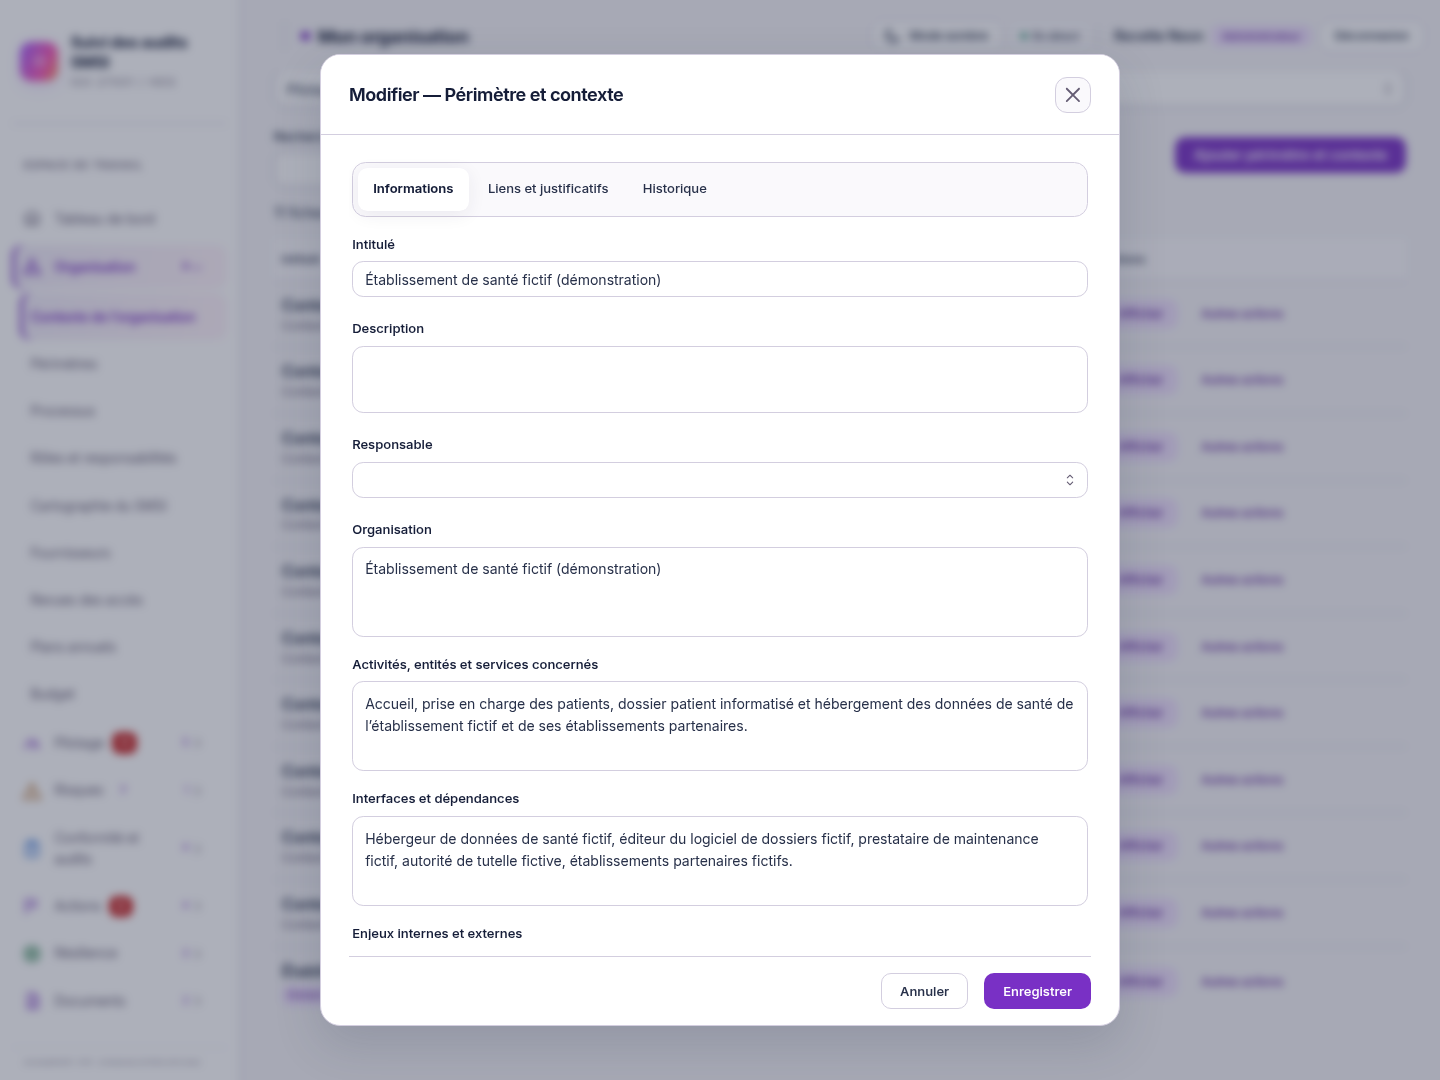
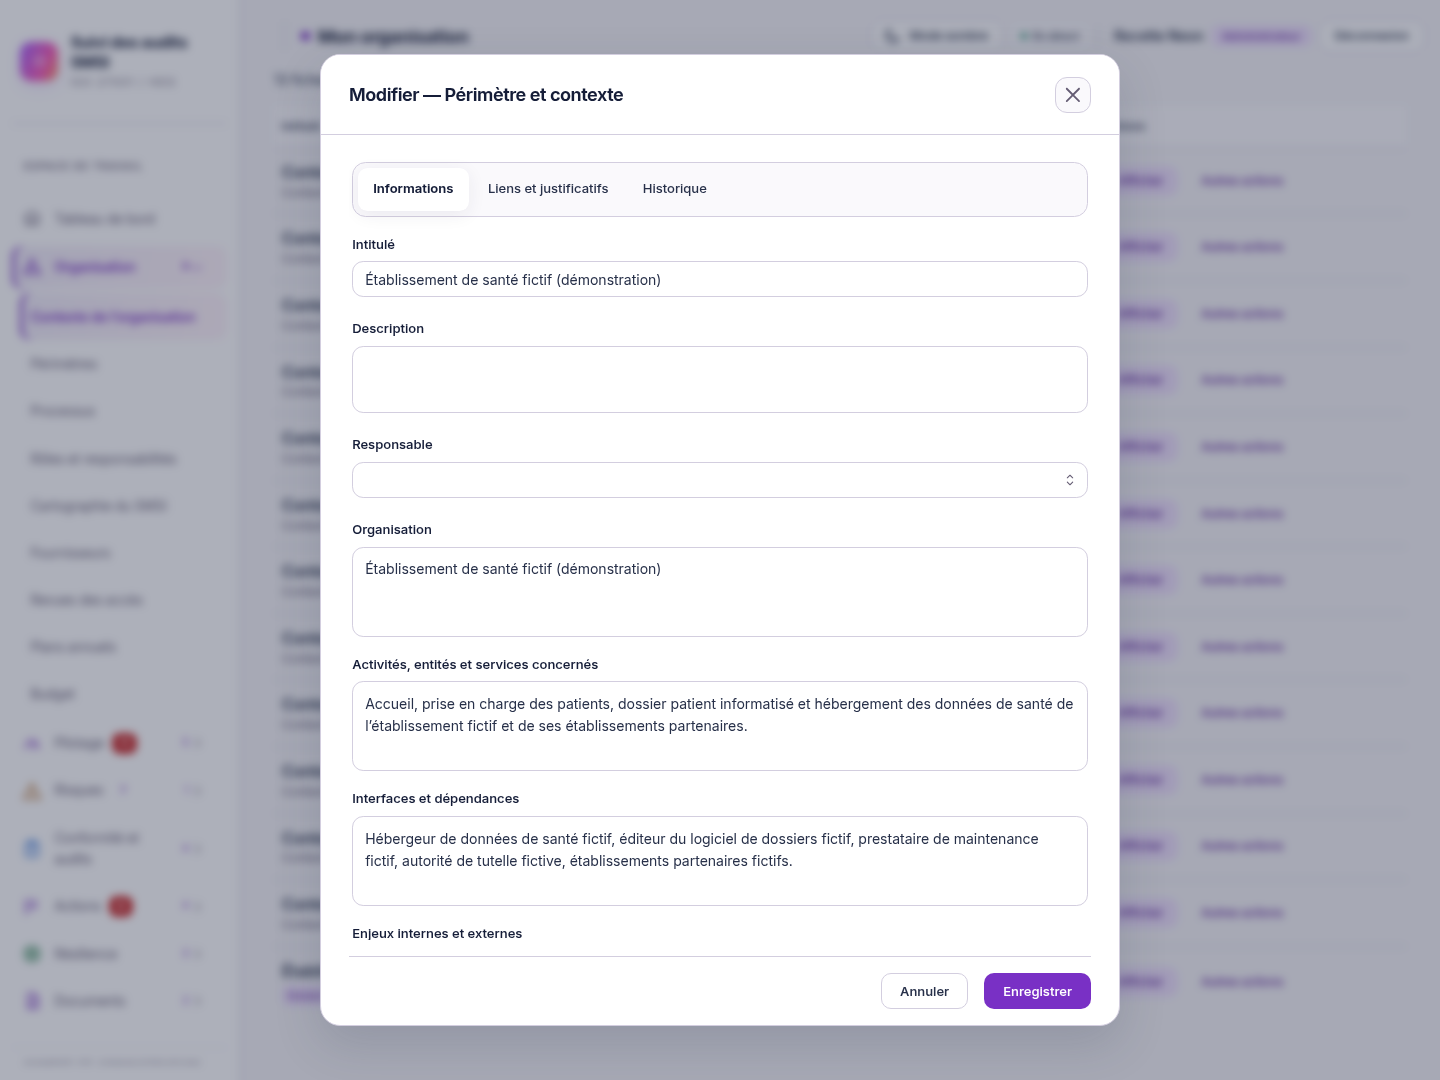
refactor(web): renforcer les fonds et unifier les listes du contexte
Puces partagées entre enjeux et interfaces, fonds et bordures plus soutenus.
Texte enregistré conservé ; découpage des énumérations et sauvegarde vérifiés.

Session : Codex (01a193c1-316c-7677-831f-2f31592aa052).

diff --git a/packages/ui/src/neon-fenetres.css b/packages/ui/src/neon-fenetres.css
@@ -231,6 +231,16 @@
 .contexte-fenetre {
   --modal-size-xl: 76rem;
 }
+.contexte-presentation {
+  --contexte-surface: color-mix(in srgb, var(--mantine-color-encre-9) 6%, var(--suivi-surface));
+  --contexte-filet: color-mix(in srgb, var(--mantine-color-encre-9) 18%, var(--suivi-trait));
+}
+.contexte-fenetre .mantine-Modal-inner {
+  --modal-inner-y-offset: 1rem;
+}
+.contexte-fenetre .mantine-Modal-content:not([data-full-screen]) {
+  --modal-content-max-height: calc(100dvh - 2rem);
+}
 .contexte-presentation > .mantine-Modal-header {
   min-height: 4rem;
   padding-block: 1rem;
@@ -369,9 +379,9 @@
   --contexte-repere-fond: var(--neon-doux);
   min-width: 0;
   padding: 1.25rem 1.4rem;
-  border: 1px solid var(--suivi-trait);
+  border: 1px solid var(--contexte-filet);
   border-radius: 0.8rem;
-  background: var(--suivi-surface);
+  background: var(--contexte-surface);
 }
 .contexte-section h4 {
   display: flex;
@@ -380,7 +390,7 @@
   min-height: 2rem;
   margin: 0 0 1rem;
   padding-bottom: 0.9rem;
-  border-bottom: 1px solid var(--suivi-trait);
+  border-bottom: 1px solid var(--contexte-filet);
   color: var(--neon-titre);
   font-size: 0.9rem;
   font-weight: 600;
@@ -420,7 +430,11 @@
   grid-template-columns: minmax(0, 1fr) minmax(10rem, 0.38fr);
   grid-column: 1 / -1;
   gap: 0.5rem 2rem;
-  background: linear-gradient(100deg, var(--neon-doux), var(--suivi-surface) 65%);
+  background: linear-gradient(
+    100deg,
+    color-mix(in srgb, var(--mantine-color-encre-9) 5%, var(--neon-doux)),
+    var(--contexte-surface) 65%
+  );
 }
 .contexte-section[data-champ='organisation'] h4 {
   grid-column: 1;
@@ -443,7 +457,7 @@
   align-self: center;
   margin: 0;
   padding: 0.5rem 0 0.5rem 1.5rem;
-  border-left: 1px solid var(--suivi-trait);
+  border-left: 1px solid var(--contexte-filet);
 }
 .contexte-responsable dd {
   font-size: 0.875rem;
@@ -452,16 +466,16 @@
   --contexte-repere-fond: color-mix(in srgb, var(--neon-bleu) 13%, var(--suivi-surface));
   background: linear-gradient(
     145deg,
-    color-mix(in srgb, var(--neon-bleu) 5%, var(--suivi-surface)),
-    var(--suivi-surface) 70%
+    color-mix(in srgb, var(--neon-bleu) 8%, var(--contexte-surface)),
+    var(--contexte-surface) 70%
   );
 }
 .contexte-section[data-champ='interfaces'] {
   --contexte-repere-fond: color-mix(in srgb, var(--neon-cyan) 14%, var(--suivi-surface));
   background: linear-gradient(
     145deg,
-    color-mix(in srgb, var(--neon-cyan) 5%, var(--suivi-surface)),
-    var(--suivi-surface) 70%
+    color-mix(in srgb, var(--neon-cyan) 8%, var(--contexte-surface)),
+    var(--contexte-surface) 70%
   );
 }
 .contexte-section[data-champ='issues'] {
@@ -469,36 +483,36 @@
 }
 .contexte-section[data-champ='exclusions'] {
   --contexte-repere-fond: color-mix(in srgb, var(--neon-rose) 12%, var(--suivi-surface));
-  background: var(--suivi-surface-douce);
+  background: color-mix(in srgb, var(--mantine-color-encre-9) 6%, var(--suivi-surface-douce));
 }
-.contexte-enjeux {
+.contexte-puces {
   display: grid;
   gap: 0.25rem;
   margin: 0;
   padding: 0;
   list-style: none;
 }
-.contexte-enjeux li {
+.contexte-puces li {
   position: relative;
-  padding: 0.45rem 0.5rem 0.45rem 1.2rem;
-  border-bottom: 1px solid var(--suivi-trait);
+  padding: 0.25rem 0.5rem 0.25rem 1.2rem;
+  border-bottom: 1px solid var(--contexte-filet);
   color: var(--mantine-color-text);
   font-size: 0.875rem;
   line-height: 1.6;
   white-space: pre-wrap;
   overflow-wrap: anywhere;
 }
-.contexte-enjeux li::before {
+.contexte-puces li::before {
   content: '';
   position: absolute;
-  top: 1.02rem;
+  top: 0.82rem;
   left: 0;
   width: 0.3rem;
   height: 0.3rem;
   border-radius: 50%;
   background: var(--neon-accent);
 }
-.contexte-enjeux li:last-child {
+.contexte-puces li:last-child {
   border-bottom: 0;
 }
 .contexte-vide {
@@ -536,7 +550,7 @@
   margin-inline: auto;
 }
 .contexte-presentation[data-full-screen] .contexte-texte,
-.contexte-presentation[data-full-screen] .contexte-enjeux li {
+.contexte-presentation[data-full-screen] .contexte-puces li {
   font-size: 1rem;
 }
 @media (max-width: 48em) {

diff --git a/tests/e2e/specs/zzzzzzzzzzzzzzzzzzzzzzzzzzz-contexte-presentation.spec.ts b/tests/e2e/specs/zzzzzzzzzzzzzzzzzzzzzzzzzzz-contexte-presentation.spec.ts
@@ -16,7 +16,7 @@ async function contexte(req: APIRequestContext, name: string) {
         description: 'Contexte fictif de recette.',
         organisation: 'Organisation de démonstration',
         scope: 'Accueil et services numériques',
-        interfaces: 'Hébergeur fictif et partenaires',
+        interfaces: 'Hébergeur fictif, éditeur (dossiers, imagerie), partenaire fictif',
         issues: 'Évolution de la réglementation\nDisponibilité des services',
         exclusions: '',
         refs: [],
@@ -55,6 +55,11 @@ test('Contexte : afficher, agrandir, annuler et enregistrer une modification exp
       'Évolution de la réglementation',
       'Disponibilité des services',
     ]);
+    await expect(view.getByRole('region', { name: /Interfaces et dépendances/ }).getByRole('listitem')).toHaveText([
+      'Hébergeur fictif',
+      'éditeur (dossiers, imagerie)',
+      'partenaire fictif',
+    ]);
     await view.getByRole('button', { name: 'Agrandir', exact: true }).click();
     await expect(view).toHaveAttribute('data-full-screen', 'true');
     await view.getByRole('button', { name: 'Réduire', exact: true }).click();
@@ -83,6 +88,7 @@ test('Contexte : afficher, agrandir, annuler et enregistrer une modification exp
     await expect(page.getByRole('dialog')).toHaveCount(0);
     const after = await (await ctx.request.get(`${base}/${object.id}`)).json();
     expect(after.data.organisation).toBe('Organisation mise à jour');
+    expect(after.data.interfaces).toBe('Hébergeur fictif, éditeur (dossiers, imagerie), partenaire fictif');
     expect(after.version).toBeGreaterThan(before.version);
     expect(writes).toEqual(['PUT']);
     await page

diff --git a/apps/web/src/pilotage/ContextPresentation.tsx b/apps/web/src/pilotage/ContextPresentation.tsx
@@ -5,6 +5,7 @@ import { useId, useState, type ReactNode } from 'react';
 import { get } from '../api';
 import { ErrorAlert, fmtDate } from '../components/common';
 import type { Source } from './Fields';
+import { lignesInterfaces } from './liste-interfaces';
 
 type Revision = { version: number; reason: string; createdAt: string; createdBy: string };
 type Relation = {
@@ -151,14 +152,14 @@ export function ContextPresentation({
                           {String(index + 1).padStart(2, '0')}
                         </span>
                       </h4>
-                      {field.key === 'issues' && filled ? (
-                        <ul className="contexte-enjeux">
-                          {value
-                            .split(/\r?\n/)
-                            .filter((line) => line.trim())
-                            .map((line, lineIndex) => (
-                              <li key={lineIndex}>{line}</li>
-                            ))}
+                      {['issues', 'interfaces'].includes(field.key) && filled ? (
+                        <ul className="contexte-puces">
+                          {(field.key === 'interfaces'
+                            ? lignesInterfaces(value)
+                            : value.split(/\r?\n/).filter((line) => line.trim())
+                          ).map((line, lineIndex) => (
+                            <li key={lineIndex}>{line}</li>
+                          ))}
                         </ul>
                       ) : (
                         <p className={filled ? 'contexte-texte' : 'contexte-vide'}>

diff --git a/apps/web/test/liste-interfaces.test.ts b/apps/web/test/liste-interfaces.test.ts
@@ -1,0 +1,34 @@
+import { describe, expect, it } from 'vitest';
+import { lignesInterfaces } from '../src/pilotage/liste-interfaces';
+
+describe('présentation des interfaces en puces', () => {
+  it('sépare une énumération en conservant les noms et les précisions', () => {
+    expect(lignesInterfaces('Hébergeur fictif, éditeur (dossiers, imagerie); partenaire fictif.')).toEqual([
+      'Hébergeur fictif',
+      'éditeur (dossiers, imagerie)',
+      'partenaire fictif.',
+    ]);
+  });
+  it('respecte les lignes déjà structurées, même si elles contiennent des virgules', () => {
+    expect(lignesInterfaces('Éditeur, intégrateur\r\nHébergeur\r\n')).toEqual(['Éditeur, intégrateur', 'Hébergeur']);
+  });
+  it('conserve les virgules des dénominations entre guillemets', () => {
+    expect(lignesInterfaces('«Partenaire, SAS», "Service, A", hébergeur')).toEqual([
+      '«Partenaire, SAS»',
+      '"Service, A"',
+      'hébergeur',
+    ]);
+  });
+  it('ne coupe ni une apostrophe française ni un nombre décimal', () => {
+    expect(lignesInterfaces("Service d'accueil, réseau 1,5 Gbit/s, partenaire")).toEqual([
+      "Service d'accueil",
+      'réseau 1,5 Gbit/s',
+      'partenaire',
+    ]);
+  });
+  it('garde une entrée seule et ne crée pas de puces vides', () => {
+    expect(lignesInterfaces('Hébergeur et partenaires')).toEqual(['Hébergeur et partenaires']);
+    expect(lignesInterfaces('  \n  ')).toEqual([]);
+    expect(lignesInterfaces('Hébergeur; ;')).toEqual(['Hébergeur']);
+  });
+});

diff --git a/apps/web/src/pilotage/liste-interfaces.ts b/apps/web/src/pilotage/liste-interfaces.ts
@@ -1,0 +1,32 @@
+/** Mise en liste visuelle uniquement : les lignes explicites sont prioritaires.
+ * Dans un paragraphe, les virgules et points-virgules hors guillemets/parenthèses séparent les entrées. */
+export function lignesInterfaces(value: string): string[] {
+  const lines = value
+    .split(/\r?\n/)
+    .map((line) => line.trim())
+    .filter(Boolean);
+  if (lines.length !== 1) return lines;
+  const text = lines[0]!;
+  const result: string[] = [];
+  let start = 0,
+    depth = 0,
+    quote = '';
+  for (let index = 0; index < text.length; index++) {
+    const character = text[index]!;
+    if (quote) {
+      if (character === quote && text[index - 1] !== '\\') quote = '';
+    } else if (character === '"' || character === '«') quote = character === '«' ? '»' : '"';
+    else if (character === '(' || character === '[') depth++;
+    else if (character === ')' || character === ']') depth = Math.max(0, depth - 1);
+    else if (
+      depth === 0 &&
+      (character === ';' ||
+        (character === ',' && !(/\d/.test(text[index - 1] ?? '') && /\d/.test(text[index + 1] ?? ''))))
+    ) {
+      result.push(text.slice(start, index).trim());
+      start = index + 1;
+    }
+  }
+  result.push(text.slice(start).trim());
+  return result.filter(Boolean);
+}

diff --git a/docs/refonte-neon/CONTEXTE-PRESENTATION.md b/docs/refonte-neon/CONTEXTE-PRESENTATION.md
@@ -74,6 +74,18 @@ Contrôles de cette reprise :
 
 Les captures ci-dessous correspondent à ce découpage. La validation esthétique du demandeur reste en attente. Les données enregistrées, droits, commandes, API et références visuelles de CI ne sont pas modifiés.
 
+## Fonds plus soutenus et puces communes
+
+01/11/2026, après retour sur `deb68f1851ddf2c8454b3551b24c915f7bea4c7f`. Les fonds des blocs sont légèrement assombris et leurs bordures renforcées, dans les deux thèmes. Interfaces/dépendances et enjeux utilisent la même liste visuelle : puce violette et séparateurs discrets.
+
+Pour les interfaces, plusieurs lignes non vides définissent les entrées en priorité. Si le champ est un seul paragraphe, les virgules et points-virgules hors parenthèses, crochets et guillemets séparent les entrées ; les virgules des nombres décimaux sont conservées. Les précisions entre parenthèses et les dénominations entre guillemets restent dans leur entrée. Ce découpage ne modifie pas le texte enregistré : le formulaire et la sauvegarde conservent la chaîne d’origine, vérifiée par le parcours e2e.
+
+Les listes sont un peu plus compactes et la fenêtre utilise davantage de hauteur disponible, pour accueillir les dépendances détaillées. Les cinq blocs restent intégralement visibles sur le jeu de démonstration à 1440 × 1080, dans les deux thèmes ; le défilement reste possible pour des textes plus longs.
+
+Vérifications de cet ajustement : huit tests ciblés réussis (trois de charte et cinq de découpage), deux parcours e2e réussis avec assertions sur les entrées affichées et le texte sauvegardé, typages web/e2e, lint, formatage et build réussis. Huit captures renouvelées, quatre analyses axe sans violation détectée ; aucune erreur JavaScript, violation CSP, réponse API en échec ou écriture pendant la consultation. Le contrôle de visibilité des cinq blocs a été conservé après ajustement des espacements. Les avertissements de build restent ceux des lots précédents.
+
+Les captures suivantes correspondent à cet ajustement. Les données, droits, commandes et références visuelles de CI sont conservés. La validation esthétique de ce dernier rendu reste à confirmer par le demandeur.
+
 ## Captures pour validation
 
 [Clair](captures-contexte/presentation-light-1440.png) · [Sombre](captures-contexte/presentation-dark-1440.png) · [Mobile](captures-contexte/presentation-light-390.png) · [Plein écran](captures-contexte/presentation-plein-ecran.png) · [Formulaire distinct de modification](captures-contexte/modification-light-1440.png)

diff --git a/HANDOVER.md b/HANDOVER.md
@@ -1,3 +1,5 @@
+> 01/11/2026 : [fonds du contexte légèrement foncés et puces partagées](docs/refonte-neon/CONTEXTE-PRESENTATION.md) entre enjeux et interfaces/dépendances ; texte enregistré conservé, cas de découpage et droits vérifiés.
+
 > 01/11/2026 : [découpage des cinq rubriques du contexte rééquilibré](docs/refonte-neon/CONTEXTE-PRESENTATION.md) : organisation en tête, activités et dépendances côte à côte, enjeux détaillés et exclusions distinctes. Captures et parcours de droits vérifiés.
 
 > 01/11/2026 : [contexte retravaillé en dossier de présentation](docs/refonte-neon/CONTEXTE-PRESENTATION.md), après retour visuel : colonne de référence, périmètre mis en évidence, lecture éditoriale. Captures renouvelées ; consultation, modification et lecteur réel vérifiés.
